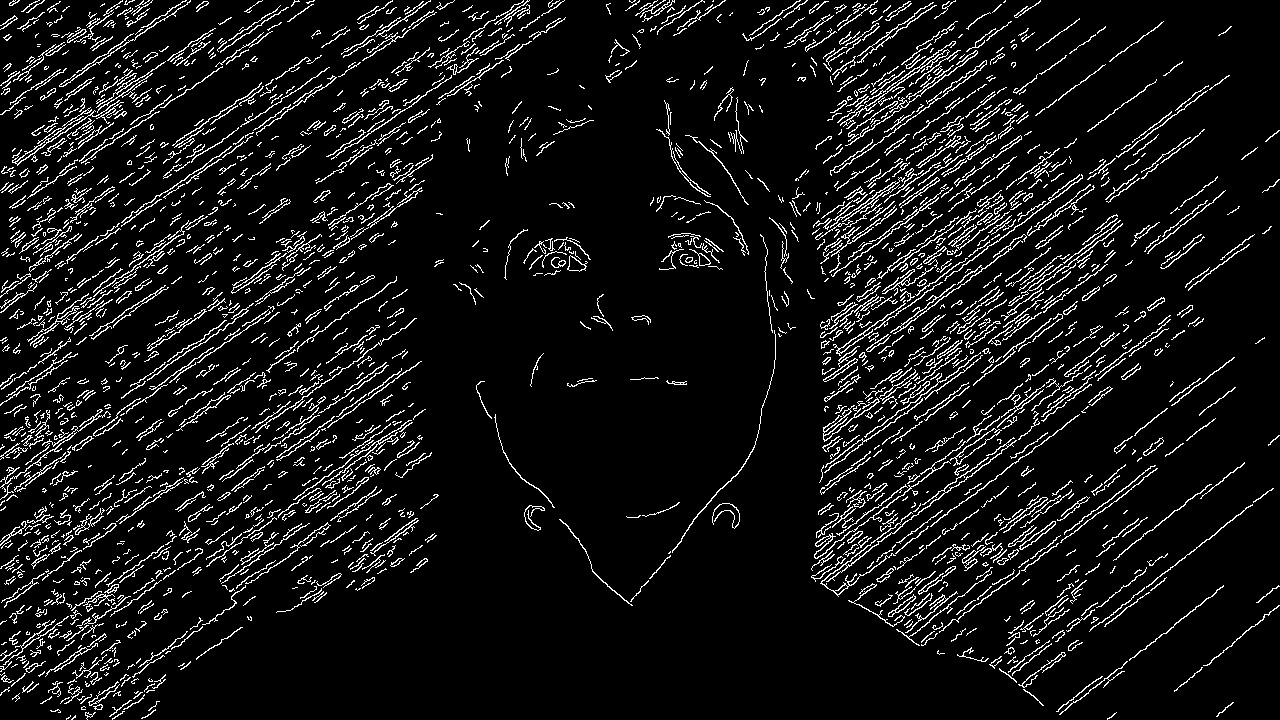
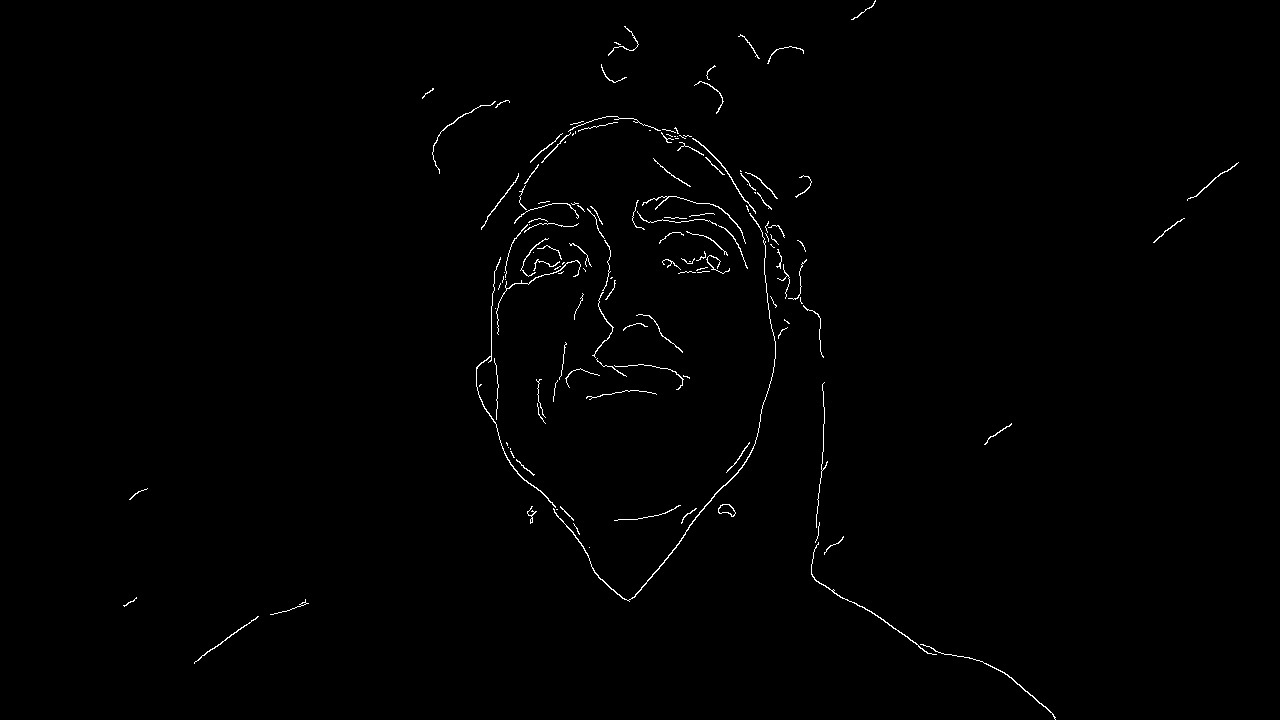
median blur preprocessing

diff --git a/image_to_canny.py b/image_to_canny.py
@@ -21,10 +21,6 @@ else:
     print("Unable to get file " + args.filename + " - Aborting!")
     quit()
 
-#default thresholds
-lower = 255/3
-upper = 255
-
 def read_image(img_name, grayscale=False):
     """ reads an image
 
@@ -84,7 +80,7 @@ def show_image(img_name, title='Fig', grayscale=False):
         plt.title(title)
         plt.show()
 
-def edge_detect_canny(gray_img, lower=255/3, upper=255):
+def edge_detect_canny(gray_img, lower=0, upper=255):
     """perform Canny edge detection
 
     Parameter
@@ -97,15 +93,16 @@ def edge_detect_canny(gray_img, lower=255/3, upper=255):
     ndarray
         gray_img with edges outlined
     """
-
-    edges = cv2.Canny(gray_img, lower, upper) #cv2.Canny documentation recommended thresholds
+    edges = cv2.medianBlur(gray_img, 15)
+    # edges = cv2.bilateralFilter(gray_img,7,75,75)
+    edges = cv2.Canny(edges, lower, upper, apertureSize = 3) #cv2.Canny documentation recommended thresholds
 
     return edges
 
 def to_grayscale(rgb_img):
     return np.dot(rgb_img[... , :3] , [0.299 , 0.587, 0.114])
 
-def show_edge_canny(img):
+def show_edge_canny(img, lower, upper):
     edges = edge_detect_canny(img, lower, upper)
     show_image(edges, title='edge canny', grayscale=True)
     return edges
@@ -114,7 +111,13 @@ if __name__ == "__main__":
 # def main(filename):
     test_img = read_image(IMG_DIR + filename + ".jpg", grayscale=True)
     # test_img_color = read_image(IMG_DIR + filename)
-    edge_img = show_edge_canny(test_img)
+
+    v = np.median(test_img)
+    sigma = 0.40
+    lower = int(max(0, (1.0 - sigma) * v))
+    upper = int(min(255, (1.0 + sigma) * v))
+    edge_img = show_edge_canny(test_img, lower, upper)
+
     save_img = False
     while save_img == False:
         draw_img = input("Do you want to draw this image? Enter 'yes' or 'no'. (If you want to exit the program, press 'x'.)")
@@ -134,26 +137,26 @@ if __name__ == "__main__":
                         pass
                     else:
                         lower -= 10
-                        edge_img = show_edge_canny(test_img)
+                        edge_img = show_edge_canny(test_img, lower, upper)
                 elif change_thresh == 'd':
                     if upper == 255:
                         print("Upper threshold is at limit. Cannot increase threshold.")
                         pass
                     else:
                         upper += 10
-                        edge_img = show_edge_canny(test_img)
+                        edge_img = show_edge_canny(test_img, lower, upper)
                 elif change_thresh == 'w':
                     if lower + 10 == upper:
                         print("Lower threshold must be lower than upper limit. Cannot increase threshold.")
                     else:
                         lower += 10
-                        edge_img = show_edge_canny(test_img)
+                        edge_img = show_edge_canny(test_img, lower, upper)
                 elif change_thresh == 'a':
                     if upper - 10 == lower:
                         print("Upper threshold must be higher than lower limit. Cannot decrease threshold.")
                     else:
                         upper -= 10
-                        edge_img = show_edge_canny(test_img)          
+                        edge_img = show_edge_canny(test_img, lower, upper)         
                 elif change_thresh == 'y':
                     write_image(edge_img, path_to_img)
                     draw_img_final = True

diff --git a/image_preprocess.py b/image_preprocess.py
@@ -22,17 +22,44 @@ if __name__ == "__main__":
 
     # make_entropy_img = input("Press 'Enter' to show entropy image.")
     # if make_entropy_img == '':
-    gray_image = rgb2gray(image) 
-    entropy_image = entropy(gray_image, disk(7))  
-    plt.axis('off')
-    plt.imshow(entropy_image)
-    plt.show()
+    # gray_image = rgb2gray(image) 
+    # entropy_image = entropy(gray_image, disk(7))  
+    # plt.axis('off')
+    # plt.imshow(entropy_image)
+    # plt.show()
 
-    max_img = entropy_image.max()
-    scale = 255/max_img
-    entropy_image = scale*entropy_image
-    plt.axis('off')
-    plt.imshow(entropy_image)
-    plt.show()
+    # max_img = entropy_image.max()
+    # scale = 255/max_img
+    # entropy_image = scale*entropy_image
+    # plt.axis('off')
+    # plt.imshow(entropy_image)
+    # plt.show()
 
-    cv2.imwrite(IMG_DIR + "heath_entropy.jpg", entropy_image)
+    # cv2.imwrite(IMG_DIR + "heath_entropy.jpg", entropy_image)
+
+
+
+    #try to recognize a face
+    gray = cv2.cvtColor(image, cv2.COLOR_BGR2GRAY)
+
+    faceCascade = cv2.CascadeClassifier(cv2.data.haarcascades + "haarcascade_frontalface_default.xml")
+    faces = faceCascade.detectMultiScale(
+        gray,
+        scaleFactor=1.3,
+        minNeighbors=3,
+        minSize=(30, 30)
+    )
+
+    print("[INFO] Found {0} Faces.".format(len(faces)))
+
+    for (x, y, w, h) in faces:
+        cv2.rectangle(image, (x, y), (x + w, y + h), (0, 255, 0), 2)
+        roi_color = image[y:y + h, x:x + w]
+        print("[INFO] Object found. Saving locally.")
+        plt.axis('off') # turn off axis labels 
+        plt.imshow(roi_color) 
+        plt.show()
+        cv2.imwrite(IMG_DIR + 'heath_preprocess.jpg', roi_color)
+
+    status = cv2.imwrite(IMG_DIR + "heath_cutout.jpg", image)
+    print("[INFO] Image written to filesystem: ", status)
